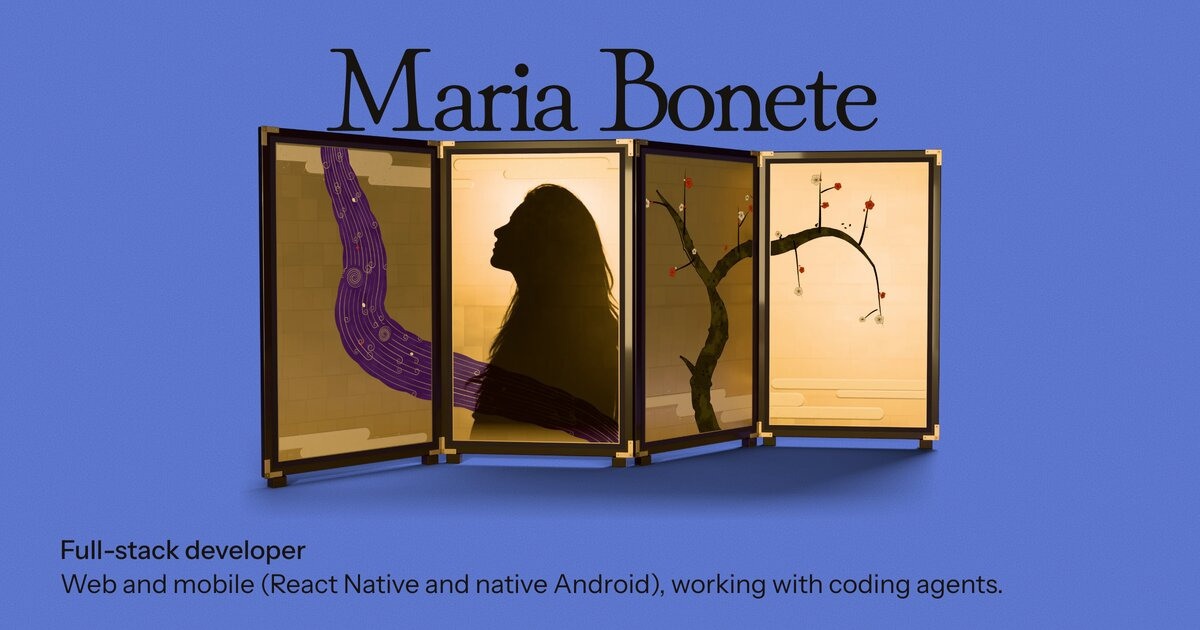
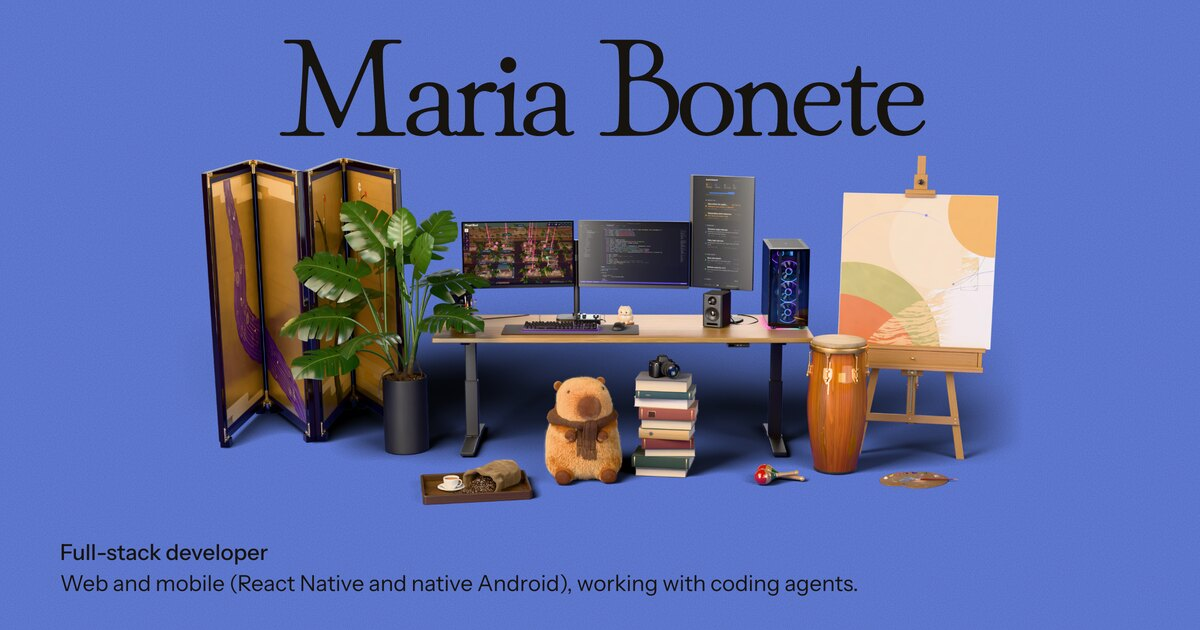
docs(hero): describe the studio in place of the folding screen
The How this site was built page says how the studio was made and names
its CC0 sources and the sounds' authors; the silhouette paragraph goes with
the silhouette. The site's link-preview card is captured again from the new
hero, with its alt text to match. README, PRODUCT.md and DESIGN.md describe
the studio, its interactions and its reduced-motion behaviour, and PRODUCT.md
drops the exception for the AI-generated silhouette.

diff --git a/src/app/how-this-site-was-built/page.tsx b/src/app/how-this-site-was-built/page.tsx
@@ -35,7 +35,7 @@ const steps = [
   {
     id: "hero",
     title: "A hero rendered in Blender",
-    body: "The folding screen is a sequence of Blender renders from shut to open, so a click plays it folding one way or the other. The panels folding toward you stand in front of the letters of my name and the others behind. The profile shadow on the open screen comes from a silhouette I chose; that one image is AI-generated.",
+    body: "The studio under my name is one Blender scene, with every object modelled in Python: the folding screen, the desk with two of my projects and this site's code on its monitors, the plush capybara, the instruments and the easel. The painting on the easel is painted in code and left unfinished. A click on the conga or the maracas plays a recording and moves it; a click on the keyboard plays typing and flares its lights. Each of the three is rendered as a layer of its own from the same camera, so it can move while its shadow stays on the floor. The textures, the environment the glossy surfaces reflect and the sounds are public domain (CC0), from Poly Haven, ambientCG and Freesound (recordings by Sassaby, Sadiquecat and stu556).",
   },
   {
     id: "screens",

diff --git a/src/share.ts b/src/share.ts
@@ -6,7 +6,7 @@ export const siteUrl = new URL("https://mariabonete.netlify.app");
 
 // The images in public/og (1200x630), made from the site itself, and what each one shows.
 const images = {
-  site: "Maria Bonete, full-stack developer: her name above a gold folding screen with her profile shadow, on a blue ground.",
+  site: "Maria Bonete, full-stack developer: her name above a studio on a blue ground, with a gold folding screen, a desk with three monitors, a plush capybara, a conga and an easel.",
   "quote-and-nod": "Quote & Nod's job page with two vendor quotes, in a browser window and on a phone.",
   doorplate: "A Doorplate listing in a browser window, and the form to write to its owner on a phone.",
   "marine-wobbles": "Marine Wobbles on three phones: level 2, the Sakura Waters map and level 66.",

diff --git a/DESIGN.md b/DESIGN.md
@@ -119,7 +119,7 @@ components:
 
 **Creative North Star: "The Object on Its Ground"**
 
-Every surface repeats one formula: a crafted object (the gold folding screen in the hero, the real product in a rendered phone or browser window for each project) set on one flat colour, its name set very large in a single-weight Mincho, and a few facts in a plain sans beside it. Colour is spent in whole fields, never in gradients or tints: azurite for the hero, one flat ground per project, ink for the index and the AI section, lavender for the closing contact, cream paper for reading. The objects carry the only depth; the grounds stay flat.
+Every surface repeats one formula: a crafted object (a studio rendered in Blender in the hero, the real product in a rendered phone or browser window for each project) set on one flat colour, its name set very large in a single-weight Mincho, and a few facts in a plain sans beside it. Colour is spent in whole fields, never in gradients or tints: azurite for the hero, one flat ground per project, ink for the index and the AI section, lavender for the closing contact, cream paper for reading. The objects carry the only depth; the grounds stay flat.
 
 Density is low at the top of each section and rises where the reading starts. Bands and heads are large-type posters; case-study sections and blog articles settle onto paper in a two-column reading layout, the heading or the product held beside the text. Hairline rules in ink or paper at 18 to 30 percent opacity divide lists and sections; there are no cards and no boxed panels.
 
@@ -128,7 +128,7 @@ Links are underlined text, and the underline is the interaction: it appears, mov
 **Key Characteristics:**
 - One flat colour per section, edge to edge; the section's ink flips to light on dark grounds.
 - Hina Mincho at 400 for names, headings, numerals and the closing links; Instrument Sans for everything else.
-- Real objects (Blender-rendered screen, phone frame, browser window) carry soft cast shadows; nothing else is lifted.
+- Real objects (the Blender-rendered studio, phone frame, browser window) carry soft cast shadows; nothing else is lifted.
 - Hairline dividers and underlines instead of cards, chips or icons.
 - Gold appears only as a fitting: a 1-2px line marking a current or fixed state.
 
@@ -174,7 +174,7 @@ Each project owns one flat ground, used for its home band, its case-study head a
 **Character:** A Japanese-Mincho Latin with one weight, set huge and tight, against a neutral grotesque. Hina Mincho has no bold and no italic, and `font-synthesis: none` forbids the browser from faking either.
 
 ### Hierarchy
-- **Display** (400, sized from one unit shared with the folding screen and bounded by the window's height, line-height 0.75, -0.035em): the name in the hero only. The screen crosses the letters at the same place at every width.
+- **Display** (400, sized from one unit shared with the studio and bounded by the window's height, line-height 0.75, -0.035em): the name in the hero only. The studio keeps the same place under the letters at every width.
 - **Headline** (400, line-height 0.88 to 0.92, -0.02 to -0.025em): project names on the bands (`headline-band`), case-study titles (`headline-case`), section titles such as Work, Experience and Get in touch (`headline-section`; the contact title runs larger, to 12rem).
 - **Title** (400, 1.04 line-height): sticky case-study section headings; article titles (clamp(2.2rem, 3.7vw, 3.35rem)); rule headings in articles (clamp(1.55rem, 2.1vw, 1.9rem), 1.14).
 - **Display links** (`title-link`): the contact links and the end links of every inner page, set in the display face and underlined.
@@ -191,7 +191,7 @@ Each project owns one flat ground, used for its home band, its case-study head a
 
 A full-bleed stack of sections, each its own ground, padded by one fluid gutter (`spacing.gutter`) on both sides. Inside, a 5:7 two-column grid with a fluid column gap (`spacing.column-gap`) is the recurring split: the work index (title beside list), every band (copy beside object, under a full-width name), every case-study section (sticky heading beside the body). Poster sections (AI, experience, contact) take `spacing.section` vertical padding; bands and case heads take `spacing.band`.
 
-The hero is a frame, not a stack: top bar in the top corners, name and screen filling the middle, role and the primary button on one baseline in the bottom corners, all sized from one unit tied to the window's height.
+The hero is a frame, not a stack: top bar in the top corners, name and studio filling the middle, role and the primary button on one baseline in the bottom corners, all sized from one unit tied to the window's height.
 
 The blog article is the reading form of the same split: from 900px a sticky full-height panel of the project's ground at 36% holds the phone (at most 300px wide) beside a reading column on paper; below 900px each rule's screen sits inline in a band of the project's colour that crops the phone. The blog list is one row per article: a tile of the project's ground with the phone, then title, byline, summary and the numbered rules, which move into a third column from 1100px.
 

diff --git a/PRODUCT.md b/PRODUCT.md
@@ -26,17 +26,16 @@ Visitors skim on phones and laptops, often in a recruiting pipeline with many ta
 
 - Next.js 16 (App Router), React 19, Tailwind 4; deployed as a static-friendly site.
 - Routes: `/` (hero, work, "Engineering, now with agents", experience, contact), `/work/marine-wobbles`, `/work/quote-and-nod`, `/work/doorplate`, `/work/switchboard`, `/how-this-site-was-built`, `/blog` and one page per article (`/blog/<slug>`, text in `src/articles`; linked from the desktop menu on `/`, with no list of articles there, owner's call). All static.
-- The site: a Blender-rendered gold folding screen on an azurite ground as the hero (folds shut at a click); one flat colour per project with its real product in a rendered phone frame and/or browser window; short silent loops in the phones; YouTube demos that play in place (privacy-enhanced, loaded on click).
+- The site: a Blender-rendered studio on an azurite ground as the hero (a gold folding screen, a desk with three monitors showing her projects, a plush capybara, a conga and maracas, an easel with an unfinished painting; the conga, the maracas and the keyboard play a CC0 recording at a click); one flat colour per project with its real product in a rendered phone frame and/or browser window; short silent loops in the phones; YouTube demos that play in place (privacy-enhanced, loaded on click).
 - Mobile: LCP under 2.5s on a mid-range phone; heavy effects degrade on small screens and under reduced motion.
 - Free fonts only.
 
 ## Brand Commitments
 
-- Design reference, not content: her taste is Bosch's *The Garden of Earthly Delights* (her desktop wallpaper), Japanese and Chinese art, and Art Nouveau; her own work leans to glossy inflated 3D, flowing lines and purple. Her hobbies (photography, travel, art, books, music) inform the design but are not shown as site content.
+- Design reference, not content: her taste is Bosch's *The Garden of Earthly Delights* (her desktop wallpaper), Japanese and Chinese art, and Art Nouveau; her own work leans to glossy inflated 3D, flowing lines and purple. Her hobbies (photography, travel, art, books, music) inform the design. The hero's studio holds objects from them (a camera, books, a conga and maracas, an easel), the owner's design; they are not otherwise site content.
 - Do not mention job-seeking. Use only photos of Maria alone or of places.
 
 - Light: cream paper, ink, and one flat colour per project section.
-- Exception chosen by the owner: the folding screen's profile shadow uses an owner-supplied silhouette that is AI-generated (its C2PA marks say so); the "How this site was built" page states that.
 - Must not look like a generic AI-generated site.
 - Learning material behind the AI section is never credited or presented as formal study; its wording, prices, model opinions and unfinished material stay private, and no private project is named. AI results are described generically.
 
@@ -61,4 +60,4 @@ Visitors skim on phones and laptops, often in a recruiting pipeline with many ta
 
 ## Accessibility & Inclusion
 
-Respect prefers-reduced-motion (loops show a still, the screen does not animate); keyboard-operable folding screen, video controls and navigation; legible contrast on every section colour.
+Respect prefers-reduced-motion (loops show a still; the studio's objects play their sound without moving); keyboard-operable studio objects (a button each), video controls and navigation; legible contrast on every section colour.

diff --git a/README.md b/README.md
@@ -8,7 +8,7 @@ Next.js 16 (App Router), React 19, TypeScript and Tailwind CSS 4, deployed on Ne
 
 ## How it's put together
 
-- **The hero** is a four-panel folding screen rendered in Blender: 28 frames from nearly shut to open, each split into a back and a front plate, so my name sits behind the panels that fold toward you and in front of the others. The page plays the frames on two canvases with a cross-fade between them, and shows the open screen as a still when reduced motion is on. The Blender scene and the scripts that paint, render and encode it are in `tools/gold-screen/`.
+- **The hero** is a studio rendered in Blender, with every object modelled in Python in `tools/studio/`. The conga, the maracas and the keyboard answer a click with a recording: each is rendered as a layer of its own from the same camera, so it can move over the room while its shadow stays on the floor. With reduced motion on, they play their sound and stay still. Textures and sounds are CC0, listed in `tools/studio/ASSETS.md`.
 - **Each project** gets one flat colour and its real product, in a browser window, on a phone or both. The phones play short silent loops of the product in use.
 - **Demo videos** play from YouTube's privacy-enhanced domain, and nothing from YouTube loads until you press play.
 - **Most of the copy** lives in `src/content.ts`, and all of it follows the writing rules in `CLAUDE.md`. `PRODUCT.md` describes the audience and the constraints, and `docs/` records design decisions.
@@ -23,4 +23,4 @@ npm run dev     # http://localhost:3000
 npm run build   # production build
 ```
 
-Rendering the hero again needs Blender, ImageMagick and `cwebp`. Each script in `tools/gold-screen/` opens with a comment on what it does and in which order to run it.
+Rendering the hero again needs Blender, ImageMagick, `cwebp` and ffmpeg. The steps are in `tools/studio/README.md`; the folding screen in the studio is painted from the panels in `tools/gold-screen/`.

diff --git a/tools/studio/ASSETS.md b/tools/studio/ASSETS.md
@@ -1,6 +1,6 @@
 # Third-party assets in the studio scene
 
-All CC0 (public domain): no attribution is required, but the site's "How this site was built" page names them.
+All CC0 (public domain): no attribution is required, but the site's "How this site was built" page names the sources and the sounds' authors.
 
 | id | source | page | licence |
 |---|---|---|---|
